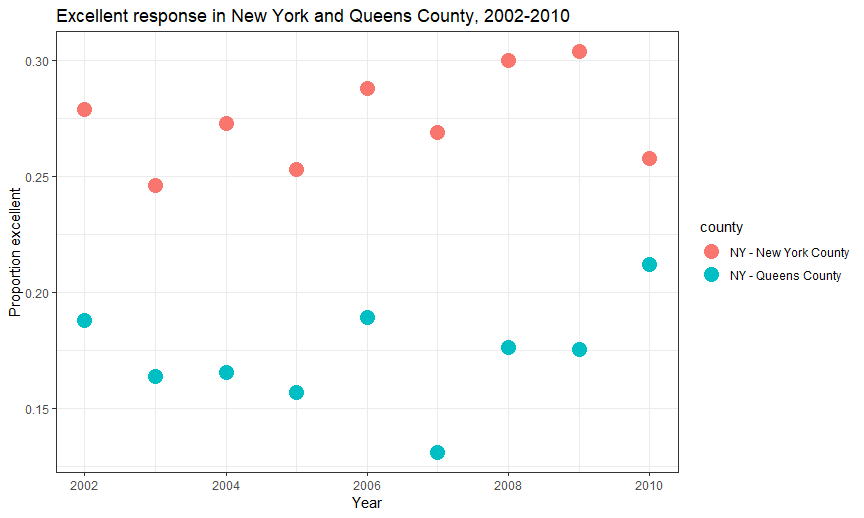
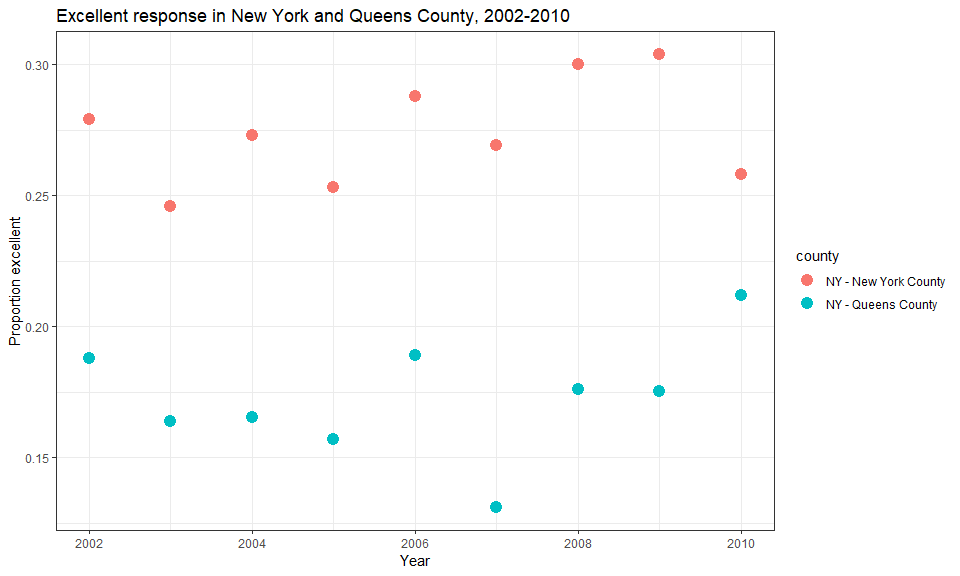
finished problem 3 questions

diff --git a/p8105_hw2_ntw2117.md b/p8105_hw2_ntw2117.md
@@ -26,7 +26,7 @@ nyc_transit_data$entry <- ifelse(nyc_transit_data$entry == "YES", TRUE, FALSE)
 The NYC transit dataset contains information about exits and entries for each subway station in NYC. Important information includes the subway line, the subway station, the trains that stop at the station, and whether the entrance or exit is ADA compliant. My approach to cleaning the data was first cleaning the names using `clean_names()` in the Janitor package. I then used a pipe to select the important columns. I recognized that line, station name, latitude/longitude, routes served, and entry already occur in order in the original dataset and only needed to represent these columns as a range. I then used the `ifelse()` function to convert the entry column to a logical variable. By using the pipe operator, I was able to do all tasks in only two code blocks. The dimensions of the dataset are 1868 rows by 19 columns. These data are not tidy. Tidy data is defined as being normalized to the 3rd normal form. This requires columns to only be variables and not pieces of information. As such, the route columns would need to be collapsed into a variable.
 
 -   There are 465 distinct stations.
--   84 stations are ada compliant.
+-   84 stations are ADA compliant.
 -   0.0369 of station entrances / exits without vending allow entry
 
 #### Tidying transit data
@@ -95,6 +95,8 @@ The dataset `trash_wheel_data` has 215 observations and contains dumpster specif
 Problem 3
 ---------
 
+#### Importing and cleaning data
+
 ``` r
 brfss_data <- p8105.datasets::brfss_smart2010 %>% 
                 janitor::clean_names() %>% 
@@ -114,7 +116,13 @@ brfss_data <- brfss_data %>%
 
 #### Answers to questions
 
--   There are 404 distinct locations in the dataset. Every state, and the District of Columbia are represented. NEED TO FINSIH THIS QUESTION.
+``` r
+max_record <- count(brfss_data, state) %>%
+  filter(n == max(n))
+```
+
+-   There are 404 distinct locations in the dataset. Every state, and the District of Columbia are represented. The state with the most observations isNJ with 146 observations.
+
 -   In 2002, the median excellent response value was 23.6.
 
 #### Plots
@@ -137,7 +145,7 @@ brfss_data %>%
   filter(county %in% c("NY - New York County", "NY - Queens County")) %>% 
   mutate(prop_excellent = excellent / (excellent + fair + good + poor + very_good)) %>% 
   ggplot(aes(x = year, y = prop_excellent, color = county)) + 
-  geom_point(size = 5) + 
+  geom_point(size = 4) + 
   labs(x = "Year", 
        y = "Proportion excellent", 
        title = "Excellent response in New York and Queens County, 2002-2010") + 
